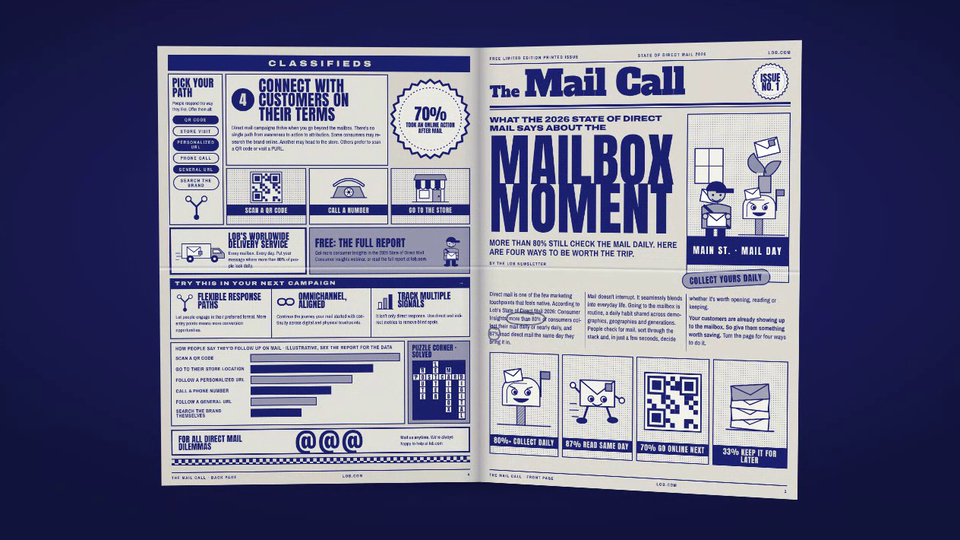
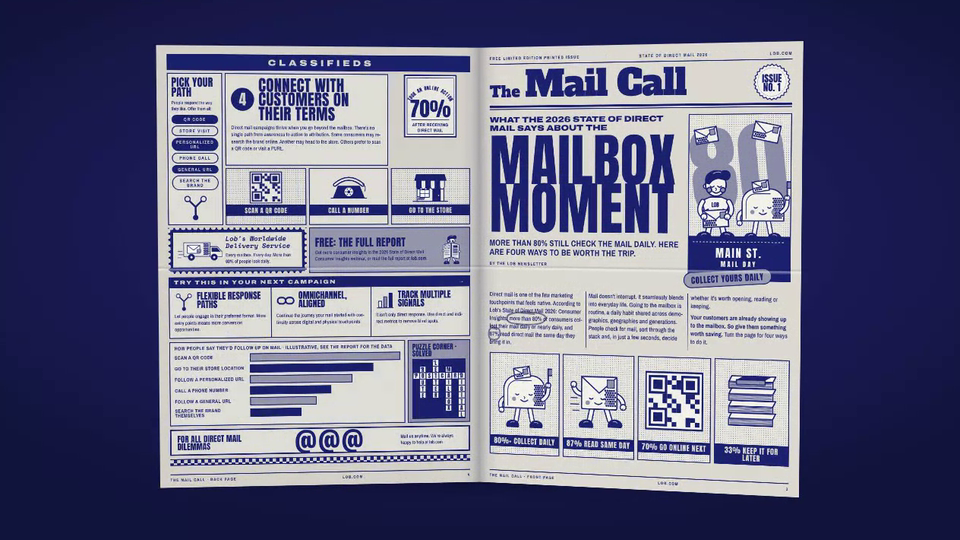
Lob Mail Call: mascot illustration kit (quiff, tube limbs, big shoes, halftone), stamp frames, arc-text ad
Claude-Session: https://claude.ai/code/session_01AHeBdzQjNWfh7WEVwq4cmj

Changed region(s): [[0.1562, 0.0593, 0.8438, 0.9481]]

diff --git a/lob-mail-call/index.html b/lob-mail-call/index.html
@@ -8,7 +8,7 @@
 <meta name="description" content="Mail Call, a four page printed newspaper about Lob's State of Direct Mail 2026: read it page by page on screen, or drag it around as a folded 3D paper from the outside pages to the inner spread.">
 <link rel="preconnect" href="https://fonts.googleapis.com">
 <link rel="preconnect" href="https://fonts.gstatic.com" crossorigin>
-<link rel="stylesheet" href="https://fonts.googleapis.com/css2?family=Inter:wght@400;500;600&family=Anton&family=Alfa+Slab+One&family=Archivo:wdth,wght@62..125,100..900&family=Archivo+Narrow:wght@400;500;600;700&display=swap">
+<link rel="stylesheet" href="https://fonts.googleapis.com/css2?family=Inter:wght@400;500;600&family=Anton&family=Alfa+Slab+One&family=Archivo:wdth,wght@62..125,100..900&family=Archivo+Narrow:wght@400;500;600;700&family=Space+Mono:ital,wght@1,700&display=swap">
 <style>
 :root{--paper:#ece8dd;--ink:#1c2170;--blue:var(--ink);--pink:color-mix(in srgb,var(--ink) 14%,var(--paper));--mag:color-mix(in srgb,var(--ink) 34%,var(--paper));--lime:color-mix(in srgb,var(--ink) 22%,var(--paper));--navy:color-mix(in srgb,var(--ink) 72%,var(--paper));--bg:#12143a;
 --sans:"Inter","Helvetica Neue",Helvetica,Arial,sans-serif;--serif:"Newsreader",Georgia,"Times New Roman",serif}
@@ -139,6 +139,8 @@ html.clip .pg::before{background:linear-gradient(to bottom,transparent 49.6%,rgb
 .cw{background:#f3f2ec;color:var(--ink);display:grid;place-items:center;font:400 13px/1 var(--an);font-style:normal;position:relative;aspect-ratio:1;border:.5px solid var(--ink)}
 .cw u{position:absolute;left:1px;top:0;font:700 6px/1 var(--nar);text-decoration:none}
 .cb2{background:var(--ink);aspect-ratio:1}
+.stamp{padding:11px;background:radial-gradient(circle 5.5px at 7px 0,var(--paper) 97%,transparent) 0 0/14px 11px repeat-x,radial-gradient(circle 5.5px at 7px 11px,var(--paper) 97%,transparent) 0 100%/14px 11px repeat-x,radial-gradient(circle 5.5px at 0 7px,var(--paper) 97%,transparent) 0 0/11px 14px repeat-y,radial-gradient(circle 5.5px at 11px 7px,var(--paper) 97%,transparent) 100% 0/11px 14px repeat-y,var(--ink)}
+.dotband{height:16px;background:radial-gradient(circle,var(--ink) 0 38%,transparent 42%) 0 0/8px 8px;-webkit-mask:linear-gradient(90deg,#000,transparent);mask:linear-gradient(90deg,#000,transparent)}
 </style>
 </head>
 <body>
@@ -171,66 +173,58 @@ const line=(x1,y1,x2,y2,w=1.6)=>`<line x1="${x1}" y1="${y1}" x2="${x2}" y2="${y2
 function hatch(x,y,w,h,gap,sw=1){let s='';for(let i=gap;i<w+h;i+=gap)s+=line(x+Math.min(i,w),y+Math.max(0,i-w),x+Math.max(0,i-h),y+Math.min(i,h),sw);return s}
 const eyes=(x1,x2,y,r=7)=>`<circle cx="${x1}" cy="${y}" r="${r}" fill="#fff" ${sk(2.2)}/><circle cx="${x2}" cy="${y}" r="${r}" fill="#fff" ${sk(2.2)}/><circle cx="${x1+1.5}" cy="${y+1}" r="${r*.45}" fill="${INK}"/><circle cx="${x2+1.5}" cy="${y+1}" r="${r*.45}" fill="${INK}"/>`;
 
-/* characters */
-function mailboxChar(){return svg('0 0 134 150',`<g ${sk()}>
-<path d="M2 144H132" fill="none"/>
-<rect x="50" y="98" width="20" height="46" fill="${tint(.28)}"/>${hatch(50,98,20,46,7,.9)}
-<path d="M108 74V16" stroke-width="4" fill="none"/><path d="M108 16h22v17h-22z" fill="${tint(.5)}"/>
-<path d="M14 98V64a32 32 0 0 1 32-32H74a32 32 0 0 1 32 32V98Z" fill="${WH}"/>
-<path d="M25 92V66a21 21 0 0 1 21-21H74" fill="none" stroke-width="1.8"/>
-${eyes(44,76,66)}<path d="M33 53l12 4M87 53l-12 4" fill="none"/>
-<path d="M42 82q18 15 36 0Z" fill="${INK}"/>
-<g transform="rotate(-10 40 28)"><rect x="20" y="14" width="42" height="28" fill="#fff"/><path d="M20 14l21 15 21-15" fill="none"/></g>
-</g>`,'A cartoon mailbox with a face and a raised flag')}
-function envelopeChar(){return svg('0 0 124 124',`<g ${sk()}>
-<path d="M2 74h14M0 88h20M6 102h14" fill="none" stroke-width="2"/>
-<path d="M42 76L32 106M82 76L92 102" fill="none" stroke-width="4.5"/>
-<ellipse cx="28" cy="110" rx="11" ry="5.5" fill="${INK}"/><ellipse cx="96" cy="106" rx="11" ry="5.5" fill="${INK}"/>
-<path d="M26 52L10 36M98 52L114 62" fill="none" stroke-width="4"/>
-<circle cx="8" cy="34" r="6" fill="#fff"/><circle cx="116" cy="63" r="6" fill="#fff"/>
-<rect x="24" y="22" width="76" height="56" fill="${WH}"/>
-<path d="M24 22L62 52L100 22" fill="none"/>
-<rect x="80" y="28" width="14" height="16" fill="${tint(.45)}" stroke-dasharray="2.6 2"/>
-${eyes(48,76,62,6.4)}<path d="M52 72q10 8 20 0" fill="none"/>
-</g>`,'A cartoon envelope running')}
-function carrierChar(){return svg('0 0 124 152',`<g ${sk()}>
-<rect x="38" y="118" width="17" height="28" fill="${INK}"/><rect x="66" y="118" width="17" height="28" fill="${INK}"/>
-<ellipse cx="42" cy="147" rx="14" ry="5" fill="${INK}"/><ellipse cx="80" cy="147" rx="14" ry="5" fill="${INK}"/>
-<path d="M28 72Q62 58 96 72V122H28Z" fill="${tint(.32)}"/>
-<path d="M34 70L92 120" stroke-width="7" fill="none"/>
-<circle cx="62" cy="40" r="21" fill="${tint(.08)}"/>
-<path d="M39 34a23 21 0 0 1 46 0Z" fill="${INK}"/><path d="M62 30h40v8H62z" fill="${INK}"/>
-<circle cx="54" cy="44" r="2.6" fill="${INK}" stroke="none"/><circle cx="72" cy="44" r="2.6" fill="${INK}" stroke="none"/>
-<path d="M52 54q10 9 20 0" fill="none"/>
-<rect x="40" y="86" width="46" height="32" fill="#fff"/><path d="M40 86L63 104L86 86" fill="none"/>
-<circle cx="36" cy="94" r="6.5" fill="${tint(.08)}"/><circle cx="90" cy="94" r="6.5" fill="${tint(.08)}"/>
-</g>`,'A cartoon mail carrier holding a letter')}
-function phoneChar(){return svg('0 0 112 92',`<g ${sk()}>
-<path d="M10 76L24 44H88L102 76Z" fill="${tint(.3)}"/>
-<path d="M14 40Q56 6 98 40" fill="none" stroke-width="9"/><path d="M14 40Q56 6 98 40" fill="none" stroke="${WH}" stroke-width="3"/>
-<circle cx="56" cy="60" r="13" fill="${WH}"/><circle cx="56" cy="60" r="3" fill="${INK}"/>
-${[0,1,2,3,4,5].map(i=>`<circle cx="${56+8*Math.cos(i*1.05)}" cy="${60+8*Math.sin(i*1.05)}" r="1.5" fill="${INK}" stroke="none"/>`).join('')}
-<path d="M4 76h104" fill="none"/>
-</g>`,'A retro telephone')}
-function vanChar(){return svg('0 0 190 104',`<g ${sk()}>
-<path d="M0 60h18M4 72h22M0 84h14" fill="none" stroke-width="2"/>
-<rect x="24" y="24" width="112" height="56" fill="${WH}"/>
-<path d="M136 40h30l22 22v18h-52Z" fill="${tint(.28)}"/><path d="M144 46h20l14 14h-34Z" fill="${WH}"/>
-<rect x="44" y="36" width="52" height="34" fill="#fff"/><path d="M44 36L70 56L96 36" fill="none"/>
-<rect x="88" y="52" width="14" height="14" fill="${tint(.45)}" stroke-dasharray="2.4 2"/>
-<circle cx="56" cy="82" r="13" fill="${INK}"/><circle cx="56" cy="82" r="5" fill="${WH}" stroke="none"/>
-<circle cx="150" cy="82" r="13" fill="${INK}"/><circle cx="150" cy="82" r="5" fill="${WH}" stroke="none"/>
-</g>`,'A delivery van')}
-function storeChar(){let st='';for(let i=0;i<6;i++)st+=`<path d="M${14+i*16} 28h16v22a8 8 0 0 1-16 0Z" fill="${i%2?WH:INK}"/>`;
-  return svg('0 0 124 104',`<g ${sk()}><rect x="16" y="48" width="92" height="52" fill="${WH}"/><path d="M8 28h108l-6-18H14Z" fill="${tint(.4)}"/>${st}
-<rect x="26" y="62" width="32" height="26" fill="#fff"/><rect x="70" y="60" width="26" height="40" fill="${tint(.3)}"/><circle cx="90" cy="82" r="2" fill="${INK}"/>
-<path d="M2 100H122" fill="none"/></g>`,'A little shop with a striped awning')}
+/* mascot kit: flat black quiff, closed-eye smile, tinted cheeks, outlined tube limbs, big black shoes, halftone shading */
+const tube=(d,w=8)=>`<path d="${d}" fill="none" stroke="${INK}" stroke-width="${w+5}" stroke-linecap="round" stroke-linejoin="round"/><path d="${d}" fill="none" stroke="${WH}" stroke-width="${w}" stroke-linecap="round" stroke-linejoin="round"/>`;
+const mitt=(x,y,r=6.5)=>`<circle cx="${x}" cy="${y}" r="${r}" fill="${WH}" ${sk(2.4)}/><path d="M${x-1} ${y+r-1}v-3" ${sk(1.6)} fill="none"/>`;
+const shoe=(x,y,f)=>`<g transform="translate(${x} ${y}) scale(${f} 1)"><path d="M-13 7C-15 -4 -7 -10 3 -9C12 -8 17 -3 17 3C17 7 15 7 12 7Z" fill="${INK}"/><path d="M-3 -5q6 -2 10 2" stroke="${WH}" stroke-width="1.6" fill="none" stroke-linecap="round" opacity=".7"/></g>`;
+function dotsIn(x,y,w,h,gap=5,r=.95){let s='';for(let j=0;y+j*gap<y+h;j++)for(let i=0;x+i*gap+(j%2)*gap/2<x+w;i++)s+=`<circle cx="${(x+i*gap+(j%2)*gap/2).toFixed(1)}" cy="${y+j*gap}" r="${r}" fill="${INK}"/>`;return s}
+function head(cx,cy,mood='shut'){const e=mood==='peek'?`<circle cx="-8" cy="2" r="3.6" fill="${INK}"/><circle cx="9" cy="2" r="3.6" fill="${INK}"/>`:`<path d="M-12 3q4 4 8 0M4 3q4 4 8 0" fill="none" ${sk(2.4)}/>`;
+  return `<g transform="translate(${cx} ${cy})"><circle cx="-22" cy="3" r="4.6" fill="${WH}" ${sk(2.4)}/><ellipse cx="0" cy="0" rx="22" ry="24" fill="${WH}" ${sk(2.8)}/>
+<circle cx="-14" cy="11" r="5.2" fill="${tint(.4)}"/><circle cx="15" cy="11" r="5.2" fill="${tint(.4)}"/>${e}<path d="M-1 7q4 1 1 5" fill="none" ${sk(1.8)}/><path d="M-7 14q8 7 16 0" fill="none" ${sk(2.4)}/>
+<path d="M-21 -4C-26 -24 -6 -34 12 -28C24 -34 36 -24 27 -13C23 -8 17 -12 13 -12C5 -16 -8 -12 -14 -2Z" fill="${INK}"/><path d="M-6 -24q8 -5 16 -2" fill="none" stroke="${WH}" stroke-width="1.8" stroke-linecap="round" opacity=".75"/></g>`}
+function tee(x,y,label){return `<path d="M${x-30} ${y+8} L${x-12} ${y} H${x+12} L${x+30} ${y+8} L${x+24} ${y+30} L${x+16} ${y+26} V${y+56} H${x-16} V${y+26} L${x-24} ${y+30} Z" fill="${WH}" ${sk()}/>${dotsIn(x+4,y+30,11,24,4.6,.9)}<text x="${x-1}" y="${y+22}" text-anchor="middle" font-family="Anton,Impact,sans-serif" font-size="12" fill="${INK}" stroke="none">${label}</text>`}
+function mailPiece(x,y,w,h,rot=0){return `<g transform="rotate(${rot} ${x+w/2} ${y+h/2})"><rect x="${x}" y="${y}" width="${w}" height="${h}" fill="${WH}" ${sk()}/><path d="M${x} ${y}L${x+w/2} ${y+h*.56}L${x+w} ${y}" fill="none" ${sk(2.2)}/>${dotsIn(x+4,y+h*.62,w*.45,h*.3,4.6,.9)}<rect x="${x+w-17}" y="${y+5}" width="12" height="13" fill="${tint(.4)}" ${sk(1.8)} stroke-dasharray="2.4 1.8"/></g>`}
+function carrierChar(){return svg('0 0 124 160',`<g ${sk()}>${tube('M52 114L47 142')}${tube('M74 114L80 142')}${shoe(40,150,-1)}${shoe(86,150,1)}${tee(63,66,'LOB')}${tube('M35 76Q22 96 38 108',7)}${tube('M91 76Q104 96 88 108',7)}${mailPiece(36,94,54,36,-3)}${mitt(38,108)}${mitt(88,108)}${head(63,40)}</g>`,'A cartoon mail carrier holding a big letter')}
+function mailboxChar(){return svg('0 0 140 164',`<g ${sk()}>${tube('M54 114L49 144')}${tube('M84 114L90 144')}${shoe(42,152,-1)}${shoe(98,152,1)}
+${tube('M20 88Q4 98 12 116',7)}${mitt(12,118)}
+<path d="M18 112V66a34 34 0 0 1 34-34H88a34 34 0 0 1 34 34V112Z" fill="${WH}" ${sk(2.8)}/>${dotsIn(96,56,22,52,4.8,.95)}
+<path d="M28 106V68a24 24 0 0 1 24-24H88" fill="none" stroke-width="1.8"/>
+<path d="M-0 0" fill="none"/>
+${tube('M116 90Q132 80 130 58',7)}${mitt(130,54)}<path d="M130 50V14" stroke-width="3.4" fill="none"/><path d="M130 14h22v16h-22z" fill="${tint(.5)}" stroke-width="2.6"/>
+<g transform="translate(70 76)"><path d="M-22 2q4 4 8 0M12 2q4 4 8 0" fill="none" stroke-width="2.4"/><circle cx="-26" cy="14" r="5.2" fill="${tint(.4)}" stroke="none"/><circle cx="26" cy="14" r="5.2" fill="${tint(.4)}" stroke="none"/><path d="M-9 16q9 8 18 0" fill="none" stroke-width="2.4"/><path d="M-1 8q4 1 1 5" fill="none" stroke-width="1.8"/></g>
+${mailPiece(44,12,40,26,-9)}</g>`,'A cartoon mailbox mascot waving a flag')}
+function envelopeChar(){return svg('0 0 128 140',`<g ${sk()}><path d="M2 70h14M0 84h20M6 98h14" fill="none" stroke-width="2"/>
+${tube('M50 92L44 120')}${tube('M82 92L90 118')}${shoe(38,128,-1)}${shoe(100,126,1)}
+${tube('M30 62Q12 60 8 44',7)}${mitt(8,40)}${tube('M104 62Q120 70 120 84',7)}${mitt(120,88)}
+<rect x="26" y="22" width="80" height="72" rx="3" fill="${WH}" ${sk(2.8)}/><path d="M26 22L66 58L106 22" fill="none" ${sk(2.6)}/>${dotsIn(80,52,22,38,4.8,.95)}
+<rect x="84" y="28" width="16" height="18" fill="${tint(.4)}" stroke-width="2" stroke-dasharray="2.6 2"/>
+<path d="M44 70q4 4 8 0M70 70q4 4 8 0" fill="none" stroke-width="2.4"/><circle cx="40" cy="80" r="5" fill="${tint(.4)}" stroke="none"/><circle cx="84" cy="80" r="5" fill="${tint(.4)}" stroke="none"/><path d="M56 80q8 7 16 0" fill="none" stroke-width="2.4"/></g>`,'A cartoon envelope mascot running')}
+/* the reading guy: an open mailer held up, eyes peeking over it */
+function readerChar(){return svg('0 0 150 170',`<g ${sk()}>${tube('M62 138L56 156')}${tube('M88 138L96 156')}${shoe(50,160,-1)}${shoe(104,160,1)}
+${head(75,34,'peek')}
+<path d="M30 56L72 46V128L30 138Z" fill="${WH}" ${sk(2.8)}/><path d="M78 46L120 56V138L78 128Z" fill="${WH}" ${sk(2.8)}/><path d="M75 46V128" fill="none" stroke-width="3"/>
+<rect x="38" y="58" width="26" height="22" fill="none" stroke-width="2"/><path d="M38 58L64 80M64 58L38 80" fill="none" stroke-width="1.6"/>
+<path d="M38 90h26M38 98h26M38 106h20M38 114h26" fill="none" stroke-width="2"/>
+<rect x="86" y="60" width="26" height="14" fill="${INK}" stroke="none"/>${dotsIn(86,80,26,24,4.6,.95)}<path d="M86 112h26M86 120h20" fill="none" stroke-width="2"/>
+${mitt(28,92)}${mitt(122,96)}</g>`,'A cartoon reader holding an open mailer')}
+function phoneChar(){return svg('0 0 120 100',`<g ${sk()}><path d="M12 82L26 46H94L108 82Z" fill="${INK}"/><path d="M16 42Q60 4 104 42" fill="none" stroke-width="12"/><path d="M16 42Q60 4 104 42" fill="none" stroke="${WH}" stroke-width="5"/>
+<circle cx="60" cy="64" r="15" fill="${WH}"/><circle cx="60" cy="64" r="3.4" fill="${INK}"/>${[0,1,2,3,4,5].map(i=>`<circle cx="${(60+9.5*Math.cos(i*1.05)).toFixed(1)}" cy="${(64+9.5*Math.sin(i*1.05)).toFixed(1)}" r="1.8" fill="${INK}" stroke="none"/>`).join('')}
+<path d="M4 84h112" fill="none"/><path d="M104 40q12 6 6 22" fill="none" stroke-width="2"/></g>`,'A retro telephone')}
+function vanChar(){return svg('0 0 200 110',`<g ${sk()}><path d="M2 62h20M6 76h24M0 90h16" fill="none" stroke-width="2"/>
+<rect x="28" y="22" width="118" height="62" fill="${WH}"/>${dotsIn(118,28,24,52,4.8,.95)}<rect x="44" y="34" width="56" height="36" fill="#fff"/><path d="M44 34L72 56L100 34" fill="none"/><rect x="88" y="52" width="16" height="14" fill="${tint(.4)}" stroke-width="2" stroke-dasharray="2.6 2"/>
+<path d="M146 40h32l22 24v22h-54Z" fill="${WH}"/><path d="M154 46h22l14 16h-36Z" fill="${INK}"/>
+<circle cx="62" cy="88" r="14" fill="${INK}"/><circle cx="62" cy="88" r="5" fill="${WH}" stroke="none"/><circle cx="164" cy="88" r="14" fill="${INK}"/><circle cx="164" cy="88" r="5" fill="${WH}" stroke="none"/></g>`,'A delivery van')}
+function storeChar(){let st='';for(let i=0;i<6;i++)st+=`<path d="M${14+i*16} 30h16v22a8 8 0 0 1-16 0Z" fill="${i%2?WH:INK}"/>`;
+  return svg('0 0 124 108',`<g ${sk()}><rect x="16" y="50" width="92" height="52" fill="${WH}"/>${dotsIn(20,86,22,12,4.6,.9)}<path d="M8 30h108l-6-20H14Z" fill="${INK}"/>${st}
+<rect x="26" y="62" width="32" height="26" fill="#fff"/><path d="M42 62v26M26 75h32" fill="none" stroke-width="1.6"/><rect x="70" y="60" width="26" height="42" fill="${INK}"/><circle cx="90" cy="82" r="2" fill="${WH}" stroke="none"/><path d="M2 102H122" fill="none"/></g>`,'A little shop with a striped awning')}
 function qrChar(){let s='';const n=11;const f=(x,y)=>(x<4&&y<4)||(x>6&&y<4)||(x<4&&y>6);
   for(let y=0;y<n;y++)for(let x=0;x<n;x++){const fin=f(x,y);const on=fin?false:((x*7+y*13+x*y)%5<2);if(on)s+=`<rect x="${6+x*8}" y="${6+y*8}" width="8" height="8" fill="${INK}"/>`}
   [[0,0],[7,0],[0,7]].forEach(([a,b])=>{s+=`<rect x="${6+a*8}" y="${6+b*8}" width="32" height="32" fill="${INK}"/><rect x="${10+a*8}" y="${10+b*8}" width="24" height="24" fill="${WH}"/><rect x="${14+a*8}" y="${14+b*8}" width="16" height="16" fill="${INK}"/>`});
-  return svg('0 0 100 100',`<rect x="1" y="1" width="98" height="98" fill="${WH}" ${sk(2.4)}/>${s}`,'A QR code')}
-function stackChar(){let s='';for(let i=0;i<4;i++){const y=88-i*20,r=(i%2?-5:4);s+=`<g transform="rotate(${r} 60 ${y})"><rect x="22" y="${y-14}" width="76" height="30" fill="${i===3?tint(.3):WH}" ${sk(2.4)}/><path d="M22 ${y-14}L60 ${y+6}L98 ${y-14}" fill="none" ${sk(2)}/></g>`}
-  return svg('0 0 120 110',s+`<path d="M12 106h96" ${sk()} fill="none"/>`,'A stack of mail')}
+  return svg('0 0 100 100',`<rect x="1" y="1" width="98" height="98" fill="${WH}" ${sk(3)}/>${s}`,'A QR code')}
+/* a stack of mail drawn like the stack of papers in the reference: stripes, thick and thin */
+function stackChar(){let s='';for(let k=0;k<4;k++){const y=96-k*26;s+=`<path d="M14 ${y}h92l6 -12H20Z" fill="${WH}" ${sk(2.6)}/><rect x="14" y="${y}" width="92" height="14" fill="${WH}" ${sk(2.6)}/>`+[0,1,2,3].map(i=>`<path d="M16 ${y+3+i*3.2}H104" stroke="${INK}" stroke-width="${i%2?1.1:1.8}" fill="none"/>`).join('')}
+  s+=`<path d="M30 14h60l14 -8H44Z" fill="${INK}"/><rect x="30" y="14" width="60" height="10" fill="${tint(.4)}" ${sk(2.6)}/>`;
+  return svg('0 0 124 128',s,'A stack of mail')}
 /* small spot icons */
 function icon(n){const g={
  clock:`<circle cx="30" cy="30" r="22" fill="${WH}"/><path d="M30 16V30L40 36" fill="none" stroke-width="3.4"/><path d="M12 8l8 6M48 8l-8 6" fill="none" stroke-width="3.4"/>`,
@@ -250,18 +244,21 @@ function badge(inner,cls=''){const N=26,R=58,r=53;let p='';for(let i=0;i<N*2;i++
   return `<div class="badge ${cls}"><svg viewBox="0 0 120 120" width="100%" height="100%"><polygon points="${p}" fill="${WH}" ${sk(3)}/><circle cx="60" cy="60" r="46" fill="none" stroke="${INK}" stroke-width="1.4" stroke-dasharray="2 3"/></svg><div class="bt">${inner}</div></div>`}
 /* hand drawn highlighter ring around a phrase */
 const hi=(t)=>`<span class="hi">${t}<svg viewBox="0 0 100 40" preserveAspectRatio="none" aria-hidden="true"><path d="M8 20C4 8 34 2 58 3S99 9 96 21 74 38 46 37 3 33 7 17 40 5 70 8" fill="none" vector-effect="non-scaling-stroke"/></svg></span>`;
-/* the front page picture: a carrier and a mailbox on Main St, in halftone */
-function scene(){return svg('0 0 250 330',`
-<g ${sk()}>
-<path d="M0 262H250V330H0Z" fill="${INK}"/><text x="125" y="304" text-anchor="middle" font-family="Anton,Impact,sans-serif" font-size="22" letter-spacing="3" fill="${WH}" stroke="none">MAIN ST. · MAIL DAY</text>
-<path d="M0 262H250" fill="none" stroke-width="3"/>
-<rect x="18" y="44" width="70" height="86" fill="${WH}"/><path d="M53 44v86M18 87h70" fill="none" stroke-width="2"/>
-<path d="M170 104c-22-6-30-36-6-48 8 22 24 24 30 48M190 120c-6-30 12-50 40-44-10 26-24 34-40 44" fill="${tint(.4)}"/><rect x="176" y="112" width="30" height="40" fill="${tint(.3)}"/>
-<g transform="rotate(-14 200 40)"><rect x="168" y="22" width="56" height="38" fill="#fff"/><path d="M168 22L196 44L224 22" fill="none"/><rect x="202" y="26" width="14" height="14" fill="${tint(.45)}" stroke-dasharray="2.4 2"/></g>
-<g transform="rotate(10 60 160)"><rect x="34" y="148" width="44" height="30" fill="#fff"/><path d="M34 148L56 166L78 148" fill="none"/></g>
-</g>
-<svg x="6" y="112" width="132" height="160" viewBox="0 0 124 152">${carrierChar().replace(/^<svg[^>]*>/,'').replace(/<\/svg>$/,'')}</svg>
-<svg x="126" y="130" width="116" height="132" viewBox="0 0 134 150">${mailboxChar().replace(/^<svg[^>]*>/,'').replace(/<\/svg>$/,'')}</svg>`,'A cartoon mail carrier waving beside a talking mailbox')}
+/* the front page picture: a carrier and a mailbox on Main St, with a giant number behind them like the reference's ISSUE 2 */
+const inner=s=>s.replace(/^<svg[^>]*>/,'').replace(/<\/svg>$/,'');
+function scene(){return svg('0 0 236 384',`
+<text x="118" y="222" text-anchor="middle" font-family="Anton,Impact,sans-serif" font-size="230" fill="${tint(.42)}" stroke="none" transform="rotate(-6 118 160)">80</text>
+<g ${sk()}><path d="M0 284H236V384H0Z" fill="${INK}"/><path d="M0 284H236" fill="none" stroke-width="3.4"/><path d="M10 296h216" stroke="${WH}" stroke-width="1.6" stroke-dasharray="3 5" fill="none"/>
+<text x="118" y="332" text-anchor="middle" font-family="Anton,Impact,sans-serif" font-size="26" letter-spacing="3" fill="${WH}" stroke="none">MAIN ST.</text><text x="118" y="354" text-anchor="middle" font-family="Anton,Impact,sans-serif" font-size="15" letter-spacing="4" fill="${WH}" stroke="none">MAIL DAY</text>
+${mailPiece(150,20,60,40,12)}${mailPiece(14,30,52,34,-10)}</g>
+<svg x="-6" y="118" width="136" height="176" viewBox="0 0 124 160">${inner(carrierChar())}</svg>
+<svg x="108" y="140" width="130" height="156" viewBox="0 0 140 164">${inner(mailboxChar())}</svg>`,'A cartoon mail carrier waving beside a talking mailbox')}
+/* text set around an arc (per letter, no ids) */
+function arcText(str,cx,cy,r,a0,a1,size,out=1){const n=str.length;return [...str].map((ch,i)=>{const a=(a0+(a1-a0)*(n===1?.5:i/(n-1)))*Math.PI/180,x=cx+r*Math.cos(a),y=cy+r*Math.sin(a),rot=a*180/Math.PI+90*out;return `<text x="${x.toFixed(1)}" y="${y.toFixed(1)}" transform="rotate(${rot.toFixed(1)} ${x.toFixed(1)} ${y.toFixed(1)})" text-anchor="middle" dominant-baseline="middle" font-family="Anton,Impact,sans-serif" font-size="${size}" fill="${INK}" stroke="none">${ch}</text>`}).join('')}
+/* the framed ad with a double rule and a headline bent over the picture */
+function arcBadge(top,big,bottom){return svg('0 0 150 176',`<rect x="3" y="3" width="144" height="170" fill="${WH}" ${sk(3.6)}/><rect x="10" y="10" width="130" height="156" fill="none" ${sk(1.4)}/>
+${arcText(top,75,106,68,-148,-32,13)}<text x="75" y="118" text-anchor="middle" font-family="Anton,Impact,sans-serif" font-size="56" fill="${INK}" stroke="none">${big}</text>
+<path d="M22 126H128" stroke="${INK}" stroke-width="1.6" fill="none"/><text x="75" y="144" text-anchor="middle" font-family="Archivo Narrow,Arial Narrow,sans-serif" font-weight="700" font-size="12.5" fill="${INK}" stroke="none" letter-spacing=".5">${bottom[0]}</text><text x="75" y="159" text-anchor="middle" font-family="Archivo Narrow,Arial Narrow,sans-serif" font-weight="700" font-size="12.5" fill="${INK}" stroke="none" letter-spacing=".5">${bottom[1]}</text>`,'A framed ad: 70 percent took an online action after mail')}
 /* mini data graphics */
 function donut(p,sz=84){const r=36,C=2*Math.PI*r;return `<svg viewBox="0 0 100 100" width="${sz}" height="${sz}"><circle cx="50" cy="50" r="${r}" fill="${WH}" stroke="${INK}" stroke-width="14"/><circle cx="50" cy="50" r="${r}" fill="none" stroke="${tint(.4)}" stroke-width="12" stroke-dasharray="${(C*p/100).toFixed(1)} ${C.toFixed(1)}" transform="rotate(-90 50 50)"/><circle cx="50" cy="50" r="${r+7}" fill="none" stroke="${INK}" stroke-width="2.4"/><circle cx="50" cy="50" r="${r-7}" fill="none" stroke="${INK}" stroke-width="2.4"/></svg>`}
 function dots(n,of=10){let s='';for(let i=0;i<of;i++)s+=`<circle cx="${9+i*17}" cy="9" r="7" fill="${i<n?INK:WH}" stroke="${INK}" stroke-width="2"/>`;return `<svg viewBox="0 0 ${of*17} 18" width="100%">${s}</svg>`}
@@ -382,13 +379,13 @@ ${foot(3,'Page three')}`,
     <div style="display:flex;gap:10px;align-items:center"><div class="num" style="background:var(--ink)">4</div><div class="an" style="font-size:37px;line-height:.9">Connect with customers on their terms</div></div>
     <div class="tx" style="margin-top:8px;font-size:12.2px"><p>Direct mail campaigns thrive when you go beyond the mailbox. There's no single path from awareness to action to attribution. Some consumers may research the brand online. Another may head to the store. Others prefer to scan a QR code or visit a PURL.</p></div>
   </div>
-  <div style="align-self:center;margin:-2px">${badge('<span style="font-size:38px">70%</span><span style="font-size:13.5px;line-height:1.02;margin-top:2px">took an online action after mail</span>')}</div>
+  <div style="align-self:stretch;height:150px">${arcBadge('TOOK AN ONLINE ACTION','70%',['AFTER RECEIVING','DIRECT MAIL'])}</div>
   ${[[qrChar(),'Scan a QR code','bx ht'],[phoneChar(),'Call a number','bx'],[storeChar(),'Go to the store','bx ht']].map(t=>`<div class="${t[2]}" style="padding:0"><div style="height:84px;padding:6px 18px 3px">${t[0]}</div><div class="cap" style="font-size:15px">${t[1]}</div></div>`).join('')}
-  <div class="bx" style="grid-column:span 2;padding:8px 10px;border-width:4px;display:grid;grid-template-columns:116px 1fr;gap:8px;align-items:center">
-    <div style="height:66px">${vanChar()}</div>
-    <div><div class="an" style="font-size:21px">Lob's worldwide delivery service</div><div class="tx" style="font-size:11.4px;margin-top:4px">Every mailbox. Every day. Put your message where more than <b>80%</b> of people look daily.</div></div>
-  </div>
-  <div class="bx sp" style="grid-column:span 2;padding:8px 12px;display:grid;grid-template-columns:1fr 62px;gap:8px;align-items:center"><div><div class="an" style="font-size:25px">Free: the full report</div><div class="tx" style="font-size:11.6px;margin-top:4px">Get more consumer insights in the 2026 State of Direct Mail Consumer Insights webinar, or read the full report at <b>lob.com</b>.</div></div><div style="height:78px">${carrierChar()}</div></div>
+  <div class="stamp" style="grid-column:span 2"><div style="background:var(--box);display:grid;grid-template-columns:104px 1fr;gap:8px;align-items:center;padding:7px 10px">
+    <div style="height:62px">${vanChar()}</div>
+    <div><div style="font:italic 700 15.5px/1.08 'Space Mono','Courier New',monospace">Lob's Worldwide Delivery Service</div><div class="tx" style="font-size:11.2px;margin-top:4px">Every mailbox. Every day. More than <b>80%</b> of people look daily.</div></div>
+  </div></div>
+  <div class="bx sp" style="grid-column:span 2;padding:8px 12px;display:grid;grid-template-columns:1fr 62px;gap:8px;align-items:center"><div><div class="an" style="font-size:25px">Free: the full report</div><div class="tx" style="font-size:11.6px;margin-top:4px">Get more consumer insights in the 2026 State of Direct Mail Consumer Insights webinar, or read the full report at <b>lob.com</b>.</div></div><div style="height:88px">${readerChar()}</div></div>
 </div>
 <div style="margin-top:8px">${trys('Try this in your next campaign',[
 ['paths','Flexible response paths','Let people engage in their preferred format. More entry points means more conversion opportunities.'],
